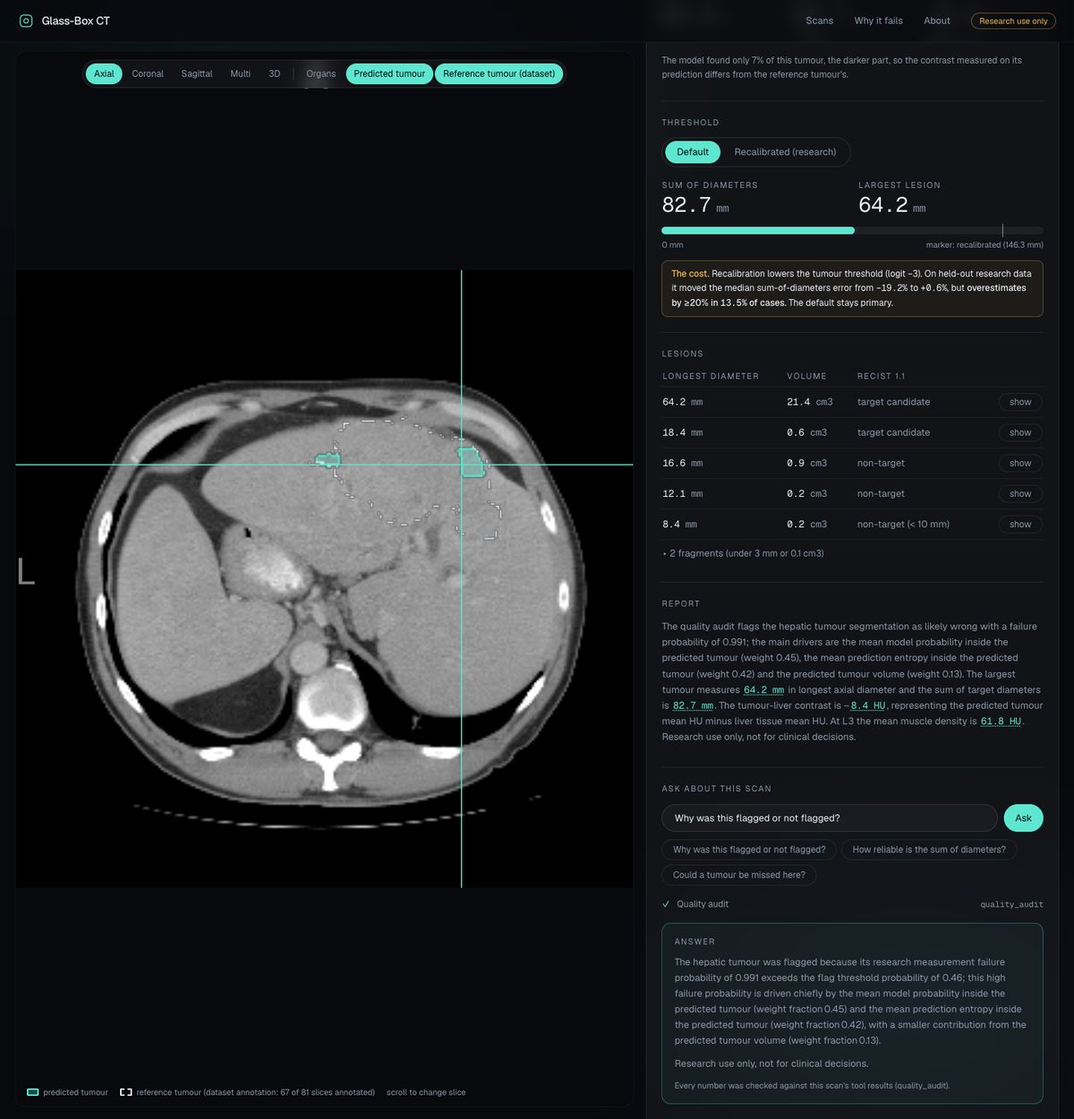
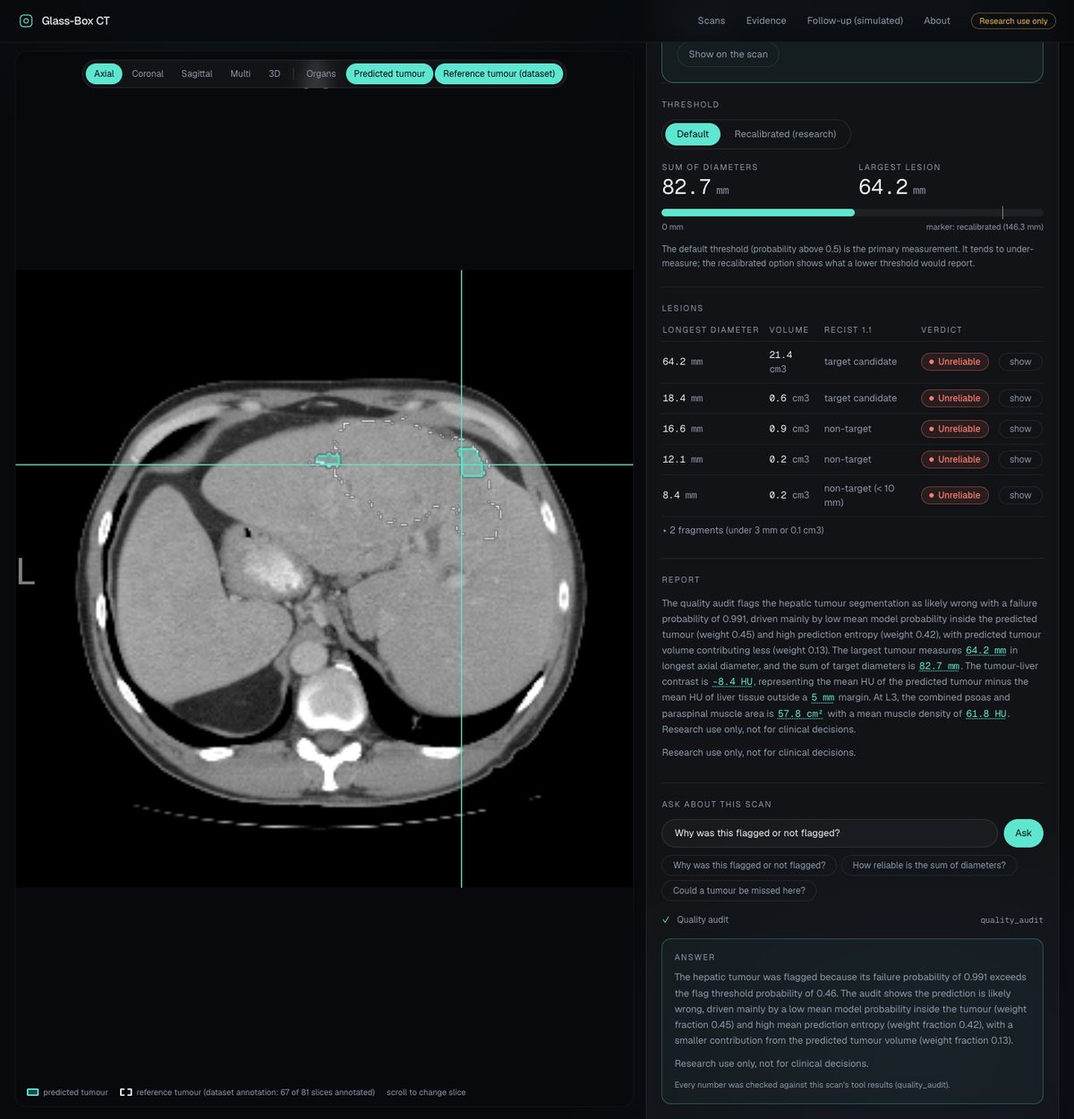
Phase heuristic removed from verdicts and the main UI (kept in the audit record, labelled unvalidated, kappa 0.04); two-timepoint page exposes persistence with a 0/50/100% dependence table and the whole-grid share (qualitative in README/Devpost/video); SUMMARY, README, Devpost, video script and imag

diff --git a/frontend/src/pages/FollowUp.jsx b/frontend/src/pages/FollowUp.jsx
@@ -64,7 +64,8 @@ export default function FollowUp() {
             <Slider id="a" label="Target lesion 1 at baseline" value={a} onChange={setA} min={12} max={120} unit="mm" />
             <Slider id="b" label="Target lesion 2 at baseline (0 = none)" value={b} onChange={setB} min={0} max={120} unit="mm" fmt={(v) => (v < 10 ? "none" : v)} />
             <Slider id="chg" label="True change in the sum of diameters" value={chg} onChange={setChg} min={-60} max={60} unit="%" fmt={(v) => `${v > 0 ? "+" : ""}${minus(String(v))}`} />
-            <Slider id="pers" label="How much a lesion's misses persist between visits (assumption)" value={pers} onChange={setPers} min={0} max={100} unit="%" /><Seg label="Tumour appearance at baseline" value={bb} onChange={setBb} /><Seg label="Tumour appearance at follow-up (a different contrast phase can change it)" value={bf} onChange={setBf} />
+            <Slider id="pers" label="How much a lesion's misses persist between visits (assumption)" value={pers} onChange={setPers} min={0} max={100} unit="%" />
+            <div role="group" aria-label="Persistence presets" className="-mt-2 flex flex-wrap gap-1.5"><span className="self-center text-[12px] text-ink-dim">Set to</span>{[[0, "0 · independent misses"], [50, "50%"], [100, "100 · same every visit"]].map(([v, t]) => <button key={v} className="btn-pill !py-1 !text-[12px]" aria-pressed={pers === v} onClick={() => setPers(v)}>{t}</button>)}</div><Seg label="Tumour appearance at baseline" value={bb} onChange={setBb} /><Seg label="Tumour appearance at follow-up (a different contrast phase can change it)" value={bf} onChange={setBf} />
           </div>
           <div className="space-y-4" aria-live="polite">
             {res ? (
@@ -74,6 +75,11 @@ export default function FollowUp() {
                 {cd.flag ? <div role="status" className="rounded-xl border border-failure/50 bg-failure/[0.08] px-4 py-3 text-[14px] leading-relaxed text-ink"><strong className="font-medium text-failure">Response depends on calibration.</strong> The two thresholds give different categories in <span className="num">{pct(cd.probability_default_and_recalibrated_differ)}</span> of simulated draws. {cd.modal.default !== cd.modal.recal ? <>The default most often reports <span className="num">{cd.modal.default}</span>, the recalibrated threshold <span className="num">{cd.modal.recal}</span>.</> : <>Both most often report <span className="num">{cd.modal.default}</span>, but the call is not stable between the two.</>}</div>
                   : <div className="rounded-xl border border-white/10 px-4 py-3 text-[14px] text-ink-dim">Below the flagging bar: the two thresholds give different categories in <span className="num text-ink">{pct(cd.probability_default_and_recalibrated_differ)}</span> of simulated draws (flagged at 25% or more).</div>}
                 <div className="grid gap-4 sm:grid-cols-2"><Method title="Default threshold" m={res.methods.default} truth={res.truth.category} accent="#8A96A8" /><Method title="Recalibrated (research)" m={res.methods.recal} truth={res.truth.category} accent="#F5B54A" /></div>
+                <div className="glass p-4 sm:p-5"><div className="eyebrow">How much does this depend on the persistence assumption?</div>
+                  <table className="mt-2 w-full text-[13px]"><thead><tr className="text-left text-ink-dim"><th className="eyebrow pb-1.5 font-normal">Persistence</th><th className="eyebrow pb-1.5 font-normal">Thresholds differ in</th><th className="eyebrow pb-1.5 font-normal">Default wrong</th><th className="eyebrow pb-1.5 font-normal">Recalibrated wrong</th></tr></thead>
+                    <tbody>{res.persistence_sweep.map((r) => <tr key={r.persistence} className={`border-t border-white/[0.06] ${Math.abs(r.persistence - pers / 100) < 0.01 ? "text-ink" : "text-ink-dim"}`}><td className="num py-1.5">{Math.round(100 * r.persistence)}%</td><td className="num py-1.5">{pct(r.probability_differ)}{r.flag ? " (flagged)" : ""}</td><td className="num py-1.5">{pct(r.wrong_default)}</td><td className="num py-1.5">{pct(r.wrong_recal)}</td></tr>)}</tbody></table>
+                  {res.grid_summary ? <p className="mt-2.5 text-[12px] leading-relaxed text-ink-dim">Across all {res.grid_summary.n_scenarios} simulated scenarios, the share in which the response call depends on the calibration is <span className="num text-ink">{pct(res.grid_summary.by_persistence["0.0"].share_calibration_dependent)}</span>, <span className="num text-ink">{pct(res.grid_summary.by_persistence["0.5"].share_calibration_dependent)}</span> and <span className="num text-ink">{pct(res.grid_summary.by_persistence["1.0"].share_calibration_dependent)}</span> at persistence 0, 50% and 100%: substantial under every assumption, so the finding does not hinge on it, but any single scenario's probabilities do move with it.</p> : null}
+                </div>
                 <div className="glass p-4 text-[12px] leading-relaxed text-ink-dim"><div className="eyebrow mb-1.5">Lesion matching (simulated positions)</div>
                   {res.pair.matching.matched.map(([i, j]) => <div key={i}>Baseline lesion {i + 1} <span className="num text-ink">{res.pair.baseline[i].diameter_mm.toFixed(0)} mm</span> matched to follow-up lesion {j + 1} <span className="num text-ink">{res.pair.followup[j].diameter_mm.toFixed(0)} mm</span></div>)}
                   <p className="mt-1.5">Matching uses lesion position and plausible size change, as it would on real scans after registration. Rule: {cd.rule}.</p></div>

diff --git a/frontend/src/components/AgentPanel.jsx b/frontend/src/components/AgentPanel.jsx
@@ -12,7 +12,6 @@ import AskBox from "./AskBox";
 import Suggestion from "./Suggestion";
 import { EASE } from "../lib/motion";
 import { minus } from "../lib/format";
-import findings from "../data/findings.json";
 
 const fade = { initial: { opacity: 0, y: 8 }, animate: { opacity: 1, y: 0 }, transition: { duration: 0.25, ease: EASE } };
 const H = ({ children }) => <h3 className="eyebrow mb-3">{children}</h3>;
@@ -55,16 +54,6 @@ export default function AgentPanel({ meta, all, summary, report, error, mode, se
 
           <Suggestion recal={summary.recalibrated} flagged={flagged} mode={mode} setMode={setMode} />
 
-          {summary.phase && summary.phase.estimate ? (
-            <section className="border-t border-white/[0.07] py-5" aria-label="Contrast phase"><H>Contrast phase <span className="ml-1 normal-case tracking-normal text-caution">research heuristic</span></H>
-              <div className="flex flex-wrap items-baseline gap-x-6 gap-y-1">
-                <span className="text-[20px] font-medium capitalize">{summary.phase.estimate}</span>
-                <span className="text-[13px] text-ink-dim">aorta {summary.phase.aorta_hu ? <><span className="num text-ink">{summary.phase.aorta_hu.value}</span> <span className="unit">HU</span></> : "not measurable"} · portal vein {summary.phase.portal_vein_hu ? <><span className="num text-ink">{summary.phase.portal_vein_hu.value}</span> <span className="unit">HU</span></> : "not measurable"}</span>
-              </div>
-              <p className="mt-2 text-[12px] leading-relaxed text-ink-dim">{summary.phase.note} Estimated from the model's own aorta and portal-vein masks with literature thresholds; not a validated classifier. On <span className="num">{findings.phase.n.value}</span> HCC scans it agreed with the reference contrast sign no better than chance (kappa <span className="num">{findings.phase.kappa.value}</span>, CI <span className="num">{minus(findings.phase.kappa.ci[0])}</span> to <span className="num">{findings.phase.kappa.ci[1]}</span>), and the miss rate was higher when the warning fired (<span className="num">{findings.phase.fires.value}%</span> vs <span className="num">{findings.phase.quiet.value}%</span>) but the difference is not statistically clear (<span className="num">{findings.phase.diff.value}</span> points, 95% CI <span className="num">{minus(findings.phase.diff.ci[0])}</span> to <span className="num">{findings.phase.diff.ci[1]}</span>). Treat it as a prompt to check, not a measurement.</p>
-            </section>
-          ) : null}
-
           <section className="border-t border-white/[0.07] py-5" aria-label="Threshold"><H>Threshold</H><RecalToggle recal={summary.recalibrated} mode={mode} setMode={setMode} /></section>
 
           {sorted.length ? <section className="border-t border-white/[0.07] py-5" aria-label="Lesions"><H>Lesions</H><LesionsTable lesions={sorted} trust={summary.trust} onJump={onJump} /></section> : null}
@@ -92,7 +81,7 @@ export default function AgentPanel({ meta, all, summary, report, error, mode, se
           ) : null}
 
           <section className="border-t border-white/[0.07] py-5" aria-label="Audit record"><H>Audit record</H>
-            <p className="text-[13px] leading-relaxed text-ink-dim">Everything behind this verdict in one file: model and checkpoint hash, thresholds, phase estimate, flag score and reasons, default vs recalibrated values, the agent's report and the tool-call log, with an integrity checksum.</p>
+            <p className="text-[13px] leading-relaxed text-ink-dim">Everything behind this verdict in one file: model and checkpoint hash, thresholds, flag score and reasons, default vs recalibrated values, the agent's report and the tool-call log, with an integrity checksum.</p>
             <div className="mt-3 flex flex-wrap gap-2"><a className="btn-pill" href={`/api/scans/${meta ? meta.id : report.scan_id}/audit.pdf`} download>Download PDF</a><a className="btn-pill" href={`/api/scans/${meta ? meta.id : report.scan_id}/audit.json`} download>Download JSON</a></div>
           </section>
 

diff --git a/glassbox/trust/audit.py b/glassbox/trust/audit.py
@@ -12,6 +12,7 @@ import subprocess
 from datetime import datetime, timezone
 
 from glassbox.app.report import RESULT_FILES, make_report
+from glassbox.trust.phase import STATUS as PHASE_STATUS
 from glassbox.trust.verdict import assess, sentence
 
 HERE = os.path.dirname(__file__)
@@ -45,7 +46,7 @@ def _digest(rec: dict) -> str:
 
 def build_audit(demo_dir: str, scan_id: str, llm=None, now: datetime | None = None) -> dict:
     d = os.path.join(demo_dir, scan_id); rep = make_report(demo_dir, scan_id, llm=llm); les, qa, ph, rc = _load(d, "lesions.json"), _load(d, "quality_audit.json"), _load(d, "phase.json"), _load(d, "recalibrated.json")
-    q = qa["structures"][0] if qa else None; trust = assess(les, q, ph) if les else None; idx = _load(demo_dir, "index.json") or {"scans": []}; meta = next((s for s in idx["scans"] if s["id"] == scan_id), {})
+    q = qa["structures"][0] if qa else None; trust = assess(les, q) if les else None; idx = _load(demo_dir, "index.json") or {"scans": []}; meta = next((s for s in idx["scans"] if s["id"] == scan_id), {})
     rec = {
         "record_version": RECORD_VERSION, "purpose": "Audit of an AI lesion measurement: what was measured, by which model and settings, and how far it can be trusted. Research use only; not a diagnosis.",
         "generated_at": (now or datetime.now(timezone.utc)).isoformat(timespec="seconds"),
@@ -54,7 +55,7 @@ def build_audit(demo_dir: str, scan_id: str, llm=None, now: datetime | None = No
         "software": {"glassbox_commit": _commit(), "report_version": rep.get("writer_sha") and "see agent.writer_sha"},
         "measurements": {"default": (rc or {}).get("default"), "recalibrated": (rc or {}).get("recalibrated"), "recalibrated_logit": (rc or {}).get("threshold_logit"), "lesions": (les or {}).get("lesions"),
                          "sum_of_target_diameters": (les or {}).get("sum_of_target_diameters"), "tumour_liver_contrast": (les or {}).get("tumour_liver_contrast"), "reference_contrast_hu": meta.get("reference_contrast_hu")},
-        "quality_flag": q, "phase": ph or {"estimate": None, "note": "no phase estimate was stored for this scan"},
+        "quality_flag": q, "phase": {**ph, "status": PHASE_STATUS, "used_in_verdict": False} if ph else {"estimate": None, "status": PHASE_STATUS, "used_in_verdict": False, "note": "no phase estimate was stored for this scan"},
         "verdict": trust,
         "agent": {"mode": rep.get("mode"), "provider_host": rep.get("provider_host"), "models": rep.get("models"), "attempts": rep.get("attempts"), "report_generated_at": rep.get("generated_at"), "cached": rep.get("cached"),
                   "report": rep.get("report"), "number_check_ok": rep.get("ok"), "unsupported_numbers": rep.get("unsupported_numbers"), "missing_units": rep.get("missing_units"), "writer_sha": rep.get("writer_sha"), "note": rep.get("note")},
@@ -108,7 +109,7 @@ def audit_pdf(rec: dict) -> bytes:
     qf = rec.get("quality_flag") or {}; st += [Paragraph("Quality flag", h), Paragraph(f"Flag: <b>{e(str(qf.get('flag')))}</b>; estimated probability that the segmentation is wrong {e(str(qf.get('failure_probability')))} (threshold {e(str(qf.get('flag_threshold_probability')))}). Validated on: {e(str(qf.get('validated_on')))}.", base)]
     st += [Paragraph(f"&bull; {e(d['name'])} pushes toward {e(d['pushes_toward'])} (weight {d['weight_fraction']})", base) for d in (qf.get("drivers") or [])]
     ph = rec["phase"]; hu = lambda k: (f"{ph[k]['value']} HU" if ph.get(k) else "not measurable")  # noqa: E731
-    st += [Paragraph("Contrast phase (research heuristic)", h), Paragraph(f"Estimate: <b>{e(ph['estimate'])}</b>; aorta {e(hu('aorta_hu'))}; portal vein {e(hu('portal_vein_hu'))}. {e(ph.get('note') or '')}" if ph.get("estimate") else "No phase estimate was stored for this scan.", base)]
+    st += [Paragraph("Contrast phase (not used in the verdict)", h), Paragraph(f"Estimate: <b>{e(ph['estimate'])}</b>; aorta {e(hu('aorta_hu'))}; portal vein {e(hu('portal_vein_hu'))}. {e(ph.get('note') or '')}" if ph.get("estimate") else "No phase estimate was stored for this scan.", base), Paragraph(e(PHASE_STATUS) + ". Shown for the record only; the verdict uses the measured tumour-minus-liver contrast.", small)]
     m = rec["model"]; a = rec["agent"]; st += [Paragraph("Model, settings and software", h), Paragraph(f"{e(m['name'])}, network {e(m['network'])}. Checkpoint SHA-256 <font size=7>{e(m['checkpoint_sha256'])}</font>. Licence: {e(m['license'])}.", base),
            Paragraph(f"Default threshold: logit {rec['thresholds']['default_logit']:g} (probability {rec['thresholds']['default_probability']}); recalibrated: logit {rec['thresholds']['recalibrated_logit']:g} (probability {rec['thresholds']['recalibrated_probability']}). Software commit {e(str(rec['software']['glassbox_commit']))}.", base),
            Paragraph("Agent report", h), Paragraph(f"Written by {e(str(a['mode']))} ({e(str(a.get('provider_host')))}; models {e(json.dumps(a.get('models')))}); number check {'passed' if a.get('number_check_ok') else 'NOT passed'}.", small)]

diff --git a/scripts/longitudinal_fit.py b/scripts/longitudinal_fit.py
@@ -20,6 +20,11 @@ grid = []
 for base, chg, (ap_name, (bb, bf)) in itertools.product([[25.0], [40.0], [60.0, 30.0], [80.0, 40.0]], [round(x, 2) for x in np.arange(-0.5, 0.41, 0.05)], APPEAR.items()):
     r = simulate(model, base, chg, bb, bf, n=800); grid.append({"baseline_mm": base, "change": chg, "appearance": ap_name, "bright_baseline": bb, "bright_followup": bf, "truth": r["truth"]["category"], "p_differ": r["calibration_dependent"]["probability_default_and_recalibrated_differ"],
                                                                  "wrong_default": r["methods"]["default"]["wrong_probability"], "wrong_recal": r["methods"]["recal"]["wrong_probability"], "modal": r["calibration_dependent"]["modal"]})
+LEVELS = (0.0, 0.5, 1.0); share = {}; pdiff = {}
+for lv in LEVELS:  # the same scenario grid at each persistence assumption: what share is calibration-dependent, and how often is each threshold wrong
+    rr = [simulate(model, g["baseline_mm"], g["change"], g["bright_baseline"], g["bright_followup"], n=600, persistence=lv) for g in grid]
+    pdiff[lv] = np.array([r["calibration_dependent"]["probability_default_and_recalibrated_differ"] for r in rr]); share[str(lv)] = {"share_calibration_dependent": float(np.mean([r["calibration_dependent"]["flag"] for r in rr])), "default_wrong_more_often_than_recal": float(np.mean([r["methods"]["default"]["wrong_probability"] > r["methods"]["recal"]["wrong_probability"] for r in rr]))}
+model["grid_summary"] = {"n_scenarios": len(grid), "by_persistence": share, "mean_abs_change_in_p_differ_0_to_1": float(np.mean(np.abs(pdiff[0.0] - pdiff[1.0]))), "note": "share of simulated scenarios in which the default and recalibrated thresholds give different RECIST categories in at least 25% of draws"}
 flip = sorted((g for g in grid if g["p_differ"] >= 0.25 and g["modal"]["default"] != g["modal"]["recal"]), key=lambda g: -g["p_differ"]); presets, seen = [], set()
 for g in flip:  # a few distinct illustrative scenarios where the category depends on calibration, then one where it does not
     key = (g["truth"], g["appearance"], len(g["baseline_mm"]))
@@ -35,6 +40,9 @@ L = ["# Two-timepoint check: bias model and simulated scenarios (SIMULATED)", ""
      "| threshold | detected lesions | median error of detected (mm) | detection coefficients | size model (a, b, c) | noise sd (mm) |", "|---|---|---|---|---|---|"]
 for k, m in (("default", d), ("recalibrated", r)):
     L.append(f"| {k} | {m['n_detected']} | {m['median_error_mm_detected']:+.1f} | {', '.join(f'{x:+.2f}' for x in m['detect_coef'])} | {', '.join(f'{x:+.2f}' for x in m['size_coef'])} | {m['size_sd']:.1f} |")
-tot = len(grid); dep = sum(g["p_differ"] >= 0.25 for g in grid); L += ["", f"Across {tot} simulated scenarios (true change -50% to +40%, four baselines, four appearance patterns) the default and recalibrated measurements give different RECIST categories in at least 25% of draws in {dep} ({dep / tot:.0%}). The default threshold is wrong more often than the recalibrated one in {sum(g['wrong_default'] > g['wrong_recal'] for g in grid) / tot:.0%} of scenarios and less often in {sum(g['wrong_default'] < g['wrong_recal'] for g in grid) / tot:.0%}.", "", "Illustrative scenarios shown in the app:", ""]
+tot = len(grid); L += ["", f"Across {tot} simulated scenarios (true change -50% to +40%, four baselines, four appearance patterns), the share in which the default and recalibrated thresholds give different RECIST categories in at least 25% of draws, at each persistence assumption:", "", "| persistence | share of scenarios that are calibration-dependent | default wrong more often than recalibrated |", "|---|---|---|"]
+L += [f"| {float(k):.1f} | {v['share_calibration_dependent']:.0%} | {v['default_wrong_more_often_than_recal']:.0%} |" for k, v in share.items()]
+hi, lo, mc = share["0.0"]["share_calibration_dependent"], share["1.0"]["share_calibration_dependent"], model["grid_summary"]["mean_abs_change_in_p_differ_0_to_1"]
+L += ["", f"Persistence 0 means a lesion's detection is independent between visits (exaggerates flips); 1 means the same lesion is found or missed in the same way both times. Reality is in between. The overall share moves only moderately across the whole range (from {hi:.0%} at 0 to {lo:.0%} at 1), so the qualitative statement is robust to this assumption: in a substantial share of simulated scenarios the response call depends on the calibration. For an individual scenario the probability that the two thresholds disagree changes by {100 * mc:.0f} percentage points on average between persistence 0 and 1.", "", "Illustrative scenarios shown in the app (persistence 0.5):", ""]
 L += [f"- {lab['label']}: baseline {p['baseline_mm']} mm, true change {p['change']:+.0%}; default most likely {p['modal']['default']}, recalibrated most likely {p['modal']['recal']} (differ in {p['p_differ']:.0%} of draws)." for lab, p in zip(model['presets'], presets)]
 open(a.md, "w").write("\n".join(L) + "\n"); print("\n".join(L))

diff --git a/glassbox/trust/verdict.py b/glassbox/trust/verdict.py
@@ -1,6 +1,6 @@
 """Trusted / Review / Unreliable, for a whole scan and for each lesion, with plain reasons that each name the tool result they come from.
 The rules are a transparent product heuristic, written down here and not tuned on the demo scans: they combine the quality flag (the only validated signal, AUROC 0.925 in
-cross-validation), the known bright-tumour blind spot (results/SUMMARY.md), the contrast-phase heuristic (results/trust/PREREG.md), and simple size and fragment rules.
+cross-validation), the known bright-tumour blind spot judged from the MEASURED tumour-minus-liver contrast (results/SUMMARY.md), and simple size and fragment rules.
 This is a statement about how far a MEASUREMENT can be relied on. It is never a diagnosis."""
 from __future__ import annotations
 
@@ -27,21 +27,20 @@ def is_fragment(l: dict) -> bool:
     return l["longest_axial_diameter"]["value"] < FRAGMENT_MM or l["volume"]["value"] < FRAGMENT_CM3
 
 
-def blind_spot(lesions: dict, phase: dict | None) -> list[dict]:
-    """The situation in which this model tends to miss tumours: tumour brighter than the surrounding liver, or an arterial-like phase (research heuristic)."""
+def blind_spot(lesions: dict) -> list[dict]:
+    """The situation in which this model tends to miss tumours: the predicted tumour is brighter than the surrounding liver (measured contrast only; the contrast-phase heuristic is
+    not used here because it agreed with the reference contrast sign no better than chance, kappa 0.04, results/SUMMARY.md section 7)."""
     out = []
     c = (lesions or {}).get("tumour_liver_contrast")
     if c and c["value"] > 0:
         out.append(_r("bright_tumour", f"The predicted tumour is brighter than the surrounding liver ({c['value']} HU). This model is known to miss some liver tumours in that situation (research finding).", "measure_lesions", REVIEW))
-    if phase and phase.get("estimate") == "arterial-like":
-        out.append(_r("arterial_phase", f"The scan looks arterial-phase by a research heuristic (aorta {phase['aorta_hu']['value']} HU); liver tumours are often brighter than liver in that phase.", "phase_check", REVIEW))
     return out
 
 
-def assess(lesions: dict | None, quality: dict | None, phase: dict | None = None) -> dict:
-    """lesions: lesions.json, quality: the tumour entry of quality_audit.json['structures'], phase: phase.json or None. Returns the scan verdict and one per lesion."""
+def assess(lesions: dict | None, quality: dict | None) -> dict:
+    """lesions: lesions.json, quality: the tumour entry of quality_audit.json['structures']. Returns the scan verdict and one per lesion."""
     lesions = lesions or {}; ls = lesions.get("lesions") or []; reasons: list[dict] = []; level = TRUSTED
-    bad = blind_spot(lesions, phase)
+    bad = blind_spot(lesions)
     if quality is None or not quality.get("assessed"):
         level = REVIEW; reasons.append(_r("no_tumour", "No tumour was predicted. That does not mean there is none: on held-out data about one lesion in five was largely missed.", "quality_audit", REVIEW))
     else:
@@ -54,8 +53,6 @@ def assess(lesions: dict | None, quality: dict | None, phase: dict | None = None
             level = REVIEW; reasons.append(_r("flag_near", f"The quality flag is not triggered but is close (probability {p}, flagged at {thr:.2f}).", "quality_audit", REVIEW))
         else:
             reasons.append(_r("flag_ok", f"The quality flag is quiet (probability {p} that the segmentation is wrong){why}.", "quality_audit", TRUSTED))
-    if phase and phase.get("estimate") == "unenhanced":
-        level = max(level, REVIEW, key=ORDER.get); reasons.append(_r("unenhanced", f"The scan looks unenhanced (aorta {phase['aorta_hu']['value']} HU); this model's tumour measurements were only examined on contrast-enhanced scans.", "phase_check", REVIEW))
     for b in bad:
         level = max(level, REVIEW, key=ORDER.get); reasons.append(b)
     nfrag = sum(is_fragment(l) for l in ls)

diff --git a/glassbox/app/server.py b/glassbox/app/server.py
@@ -19,13 +19,13 @@ from glassbox.agent.backends import PrecomputedBackend
 from glassbox.agent.tools import ToolBox
 from glassbox.app.report import make_report
 from glassbox.trust.audit import audit_pdf, build_audit
-from glassbox.trust.longitudinal import SIMULATED, load_model, simulate
+from glassbox.trust.longitudinal import SIMULATED, load_model, persistence_sweep, simulate
 from glassbox.trust.verdict import assess
 
 SCAN_ID = re.compile(r"^[A-Za-z0-9][A-Za-z0-9_.-]{0,80}$")
 VOLUMES = ("ct", "organs", "tumour", "tumour_outline", "tumour_recal", "tumour_recal_outline", "reference_outline")  # what the viewer may draw; a scan lists the ones it has
 FILES = {f"{v}.nii.gz" for v in VOLUMES} | {"labels.json", "thumb.png"}
-SUMMARY_PARTS = ("segmentation", "body_composition", "lesions", "quality_audit", "recalibrated", "reference", "phase")
+SUMMARY_PARTS = ("segmentation", "body_composition", "lesions", "quality_audit", "recalibrated", "reference")
 DIST = os.environ.get("GLASSBOX_FRONTEND_DIST") or os.path.join(os.path.dirname(__file__), "..", "..", "frontend", "dist")
 MAX_UPLOAD_MB = 300
 ASK_PER_MINUTE, ASK_PER_HOUR = 6, 120
@@ -67,8 +67,7 @@ def create_app(demo_dir: str, live=None, llm=None) -> FastAPI:
         """The Trusted / Review / Unreliable verdict, computed from the stored tool results (deterministic; shared with the audit record)."""
         try:
             les = json.load(open(os.path.join(d, "lesions.json"))); qa = json.load(open(os.path.join(d, "quality_audit.json")))["structures"][0]
-            ph = os.path.join(d, "phase.json")
-            return assess(les, qa, json.load(open(ph)) if os.path.exists(ph) else None)
+            return assess(les, qa)
         except (OSError, KeyError, IndexError, ValueError):
             return None
 
@@ -140,7 +139,7 @@ def create_app(demo_dir: str, live=None, llm=None) -> FastAPI:
             r = simulate(m, body.baseline_mm, body.change, body.bright_baseline, body.bright_followup, n=1500, persistence=body.persistence)
         except ValueError as e:
             raise HTTPException(422, str(e))
-        r["fixture"] = bool(m.get("fixture")); return r
+        r["persistence_sweep"] = persistence_sweep(m, body.baseline_mm, body.change, body.bright_baseline, body.bright_followup); r["grid_summary"] = m.get("grid_summary"); r["fixture"] = bool(m.get("fixture")); return r
 
     @app.get("/api/scans/{scan_id}/audit.json")
     def audit_json(scan_id: str):

diff --git a/scripts/smoke_deployed.py b/scripts/smoke_deployed.py
@@ -36,7 +36,7 @@ if scans:
     check("ask: clinical question refused (or 503 when no model)", (s == 200 and b"refused" in b and b'"refused": true' in b) or s == 503, f"status {s}")
 if scans:
     check("every scan carries a Trusted / Review / Unreliable verdict", all(x.get("verdict") in ("Trusted", "Review", "Unreliable") for x in scans), ", ".join(str(x.get("verdict")) for x in scans))
-    s, b, _ = get(f"/api/scans/{sid}/summary"); sm = json.loads(b) if s == 200 else {}; check("summary has verdict, phase, recalibrated, reference layers", bool(sm.get("trust")) and bool(sm.get("phase")) and bool(sm.get("recalibrated")) and "reference_outline" in sm.get("layers", []))
+    s, b, _ = get(f"/api/scans/{sid}/summary"); sm = json.loads(b) if s == 200 else {}; check("summary has verdict, recalibrated, reference layers and NO phase in the main payload", bool(sm.get("trust")) and "phase" not in sm and bool(sm.get("recalibrated")) and "reference_outline" in sm.get("layers", []))
     s, b, _ = get(f"/api/scans/{sid}/audit.json"); a_ = json.loads(b) if s == 200 else {}; check("audit.json downloads and has the integrity block", s == 200 and "sha256" in a_.get("integrity", {}) and len(a_.get("model", {}).get("checkpoint_sha256", "")) == 64)
     s, b, _ = get(f"/api/scans/{sid}/audit.pdf"); check("audit.pdf downloads", s == 200 and b[:5] == b"%PDF-" and len(b) > 3000, f"{len(b)} bytes")
 s, b, _ = get("/api/longitudinal/model"); lm = json.loads(b) if s == 200 else {}; check("two-timepoint model is available, real (not a fixture) and labelled simulated", s == 200 and lm.get("available") and not lm.get("fixture") and lm.get("simulated"))

diff --git a/tests/test_trust.py b/tests/test_trust.py
@@ -26,11 +26,11 @@ def test_a_bright_tumour_downgrades_a_quiet_flag_to_review_and_says_why():
     assert v["level"] == REVIEW and v["lesions"][0]["level"] == REVIEW and any(r["code"] == "bright_tumour" for r in v["reasons"])
 
 
-def test_phase_arterial_like_or_unenhanced_downgrades_and_is_attributed_to_the_phase_check():
-    phase = {"estimate": "arterial-like", "aorta_hu": qty(260, "HU")}
-    v = assess({"lesions": [L(1, 40, 20.0)], "tumour_liver_contrast": qty(-5, "HU")}, Q(p=0.05), phase)
-    assert v["level"] == REVIEW and any(r["code"] == "arterial_phase" and r["source"] == "phase_check" for r in v["reasons"])
-    assert assess({"lesions": [L(1, 40, 20.0)]}, Q(p=0.05), {"estimate": "unenhanced", "aorta_hu": qty(45, "HU")})["level"] == REVIEW
+def test_the_phase_estimate_plays_no_part_in_verdicts_and_the_bright_warning_uses_measured_contrast_only():
+    import inspect
+    assert "phase" not in inspect.signature(assess).parameters  # kappa 0.04 against the reference contrast sign: not a basis for a verdict
+    dark = assess({"lesions": [L(1, 40, 20.0)], "tumour_liver_contrast": qty(-5, "HU")}, Q(p=0.05)); assert dark["level"] == TRUSTED and not any("phase" in r["code"] for r in dark["reasons"])
+    bright = assess({"lesions": [L(1, 40, 20.0)], "tumour_liver_contrast": qty(5, "HU")}, Q(p=0.05)); assert bright["level"] == REVIEW and any(r["code"] == "bright_tumour" for r in bright["reasons"])
 
 
 def test_lesion_rules_fragments_small_and_low_confidence():

diff --git a/glassbox/trust/longitudinal.py b/glassbox/trust/longitudinal.py
@@ -106,6 +106,16 @@ def simulate(model: dict, baseline_mm: list[float], change: float, bright_baseli
     return res
 
 
+def persistence_sweep(model: dict, baseline_mm: list[float], change: float, bright_baseline: bool, bright_followup: bool, n: int = 1000, seed: int = 1, levels=(0.0, 0.5, 1.0)) -> list[dict]:
+    """SIMULATED. The same scenario at several persistence assumptions: how often the two thresholds disagree, whether that crosses the flagging bar, and how often each is wrong."""
+    out = []
+    for lv in levels:
+        r = simulate(model, baseline_mm, change, bright_baseline, bright_followup, n=n, seed=seed, persistence=lv)
+        out.append({"persistence": lv, "probability_differ": r["calibration_dependent"]["probability_default_and_recalibrated_differ"], "flag": r["calibration_dependent"]["flag"], "modal": r["calibration_dependent"]["modal"],
+                    "wrong_default": r["methods"]["default"]["wrong_probability"], "wrong_recal": r["methods"]["recal"]["wrong_probability"]})
+    return out
+
+
 def _illustrative_pair(t0: np.ndarray, t1: np.ndarray, seed: int) -> dict:
     """SIMULATED lesion positions for the display: baseline lesions 60 mm apart, follow-up positions jittered by a few mm, then matched exactly as real scans would be."""
     rng = np.random.default_rng(seed + 7); a = [{"centroid_mm": [60.0 * i, 0.0, 0.0], "diameter_mm": float(d)} for i, d in enumerate(t0)]

diff --git a/tests/test_pipeline.py b/tests/test_pipeline.py
@@ -201,3 +201,12 @@ def test_audit_record_is_complete_tamper_evident_and_downloadable_as_json_and_pd
 def test_pdf_text_helper_maps_typographic_characters_the_builtin_font_cannot_draw():
     from glassbox.trust.audit import pdf_safe
     assert pdf_safe("tumour\u2011liver \u2212 8.4 HU \u2265 20% \u2192 ok \u201cx\u201d \u4e2d") == 'tumour-liver - 8.4 HU >= 20% -> ok "x" ?'
+
+
+def test_phase_estimate_is_kept_in_the_audit_record_only_and_labelled_unvalidated(tmp_path):
+    from fastapi.testclient import TestClient
+    from glassbox.app.server import create_app
+    from glassbox.trust.audit import build_audit
+    path, probs = _scan(str(tmp_path)); root = os.path.join(str(tmp_path), "res"); build_results(path, probs, root, "s", {"source": "synthetic"}); json.dump({"scans": []}, open(os.path.join(root, "index.json"), "w"))
+    rec = build_audit(root, "s"); assert rec["phase"]["used_in_verdict"] is False and "unvalidated heuristic" in rec["phase"]["status"] and "kappa 0.04" in rec["phase"]["status"] and "at chance level" in rec["phase"]["status"]
+    assert "phase" not in TestClient(create_app(root)).get("/api/scans/s/summary").json()  # nothing about phase reaches the main UI payload

diff --git a/glassbox/trust/phase.py b/glassbox/trust/phase.py
@@ -14,6 +14,7 @@ from glassbox.agent.tools import qty
 UNENHANCED_BELOW, ARTERIAL_FROM, PV_ENHANCED = 100.0, 200.0, 100.0   # HU
 MIN_VOLUME_MM3 = 200 * 1.5 ** 3
 SLAB_MM = 20.0
+STATUS = "unvalidated heuristic (agreement with reference contrast sign at chance level, kappa 0.04)"  # results/SUMMARY.md section 7; the estimate is kept in the audit record only
 RULE = "research heuristic v1 (thresholds from the literature, fixed before checking on HCC-TACE-Seg; results/trust/PREREG.md)"
 FAMILY = {"arterial": "arterial-like", "venous": "venous-like", "delayed": "venous-like", "unenhanced": "unenhanced"}
 

diff --git a/glassbox/trust/__init__.py b/glassbox/trust/__init__.py
@@ -1,1 +1,1 @@
-"""Trust layer: per-scan and per-lesion verdicts, the contrast-phase heuristic, the audit record, the two-timepoint check."""
+"""Trust layer: per-scan and per-lesion verdicts, the audit record (which keeps an unvalidated contrast-phase estimate for the record only), the two-timepoint check (simulated)."""
